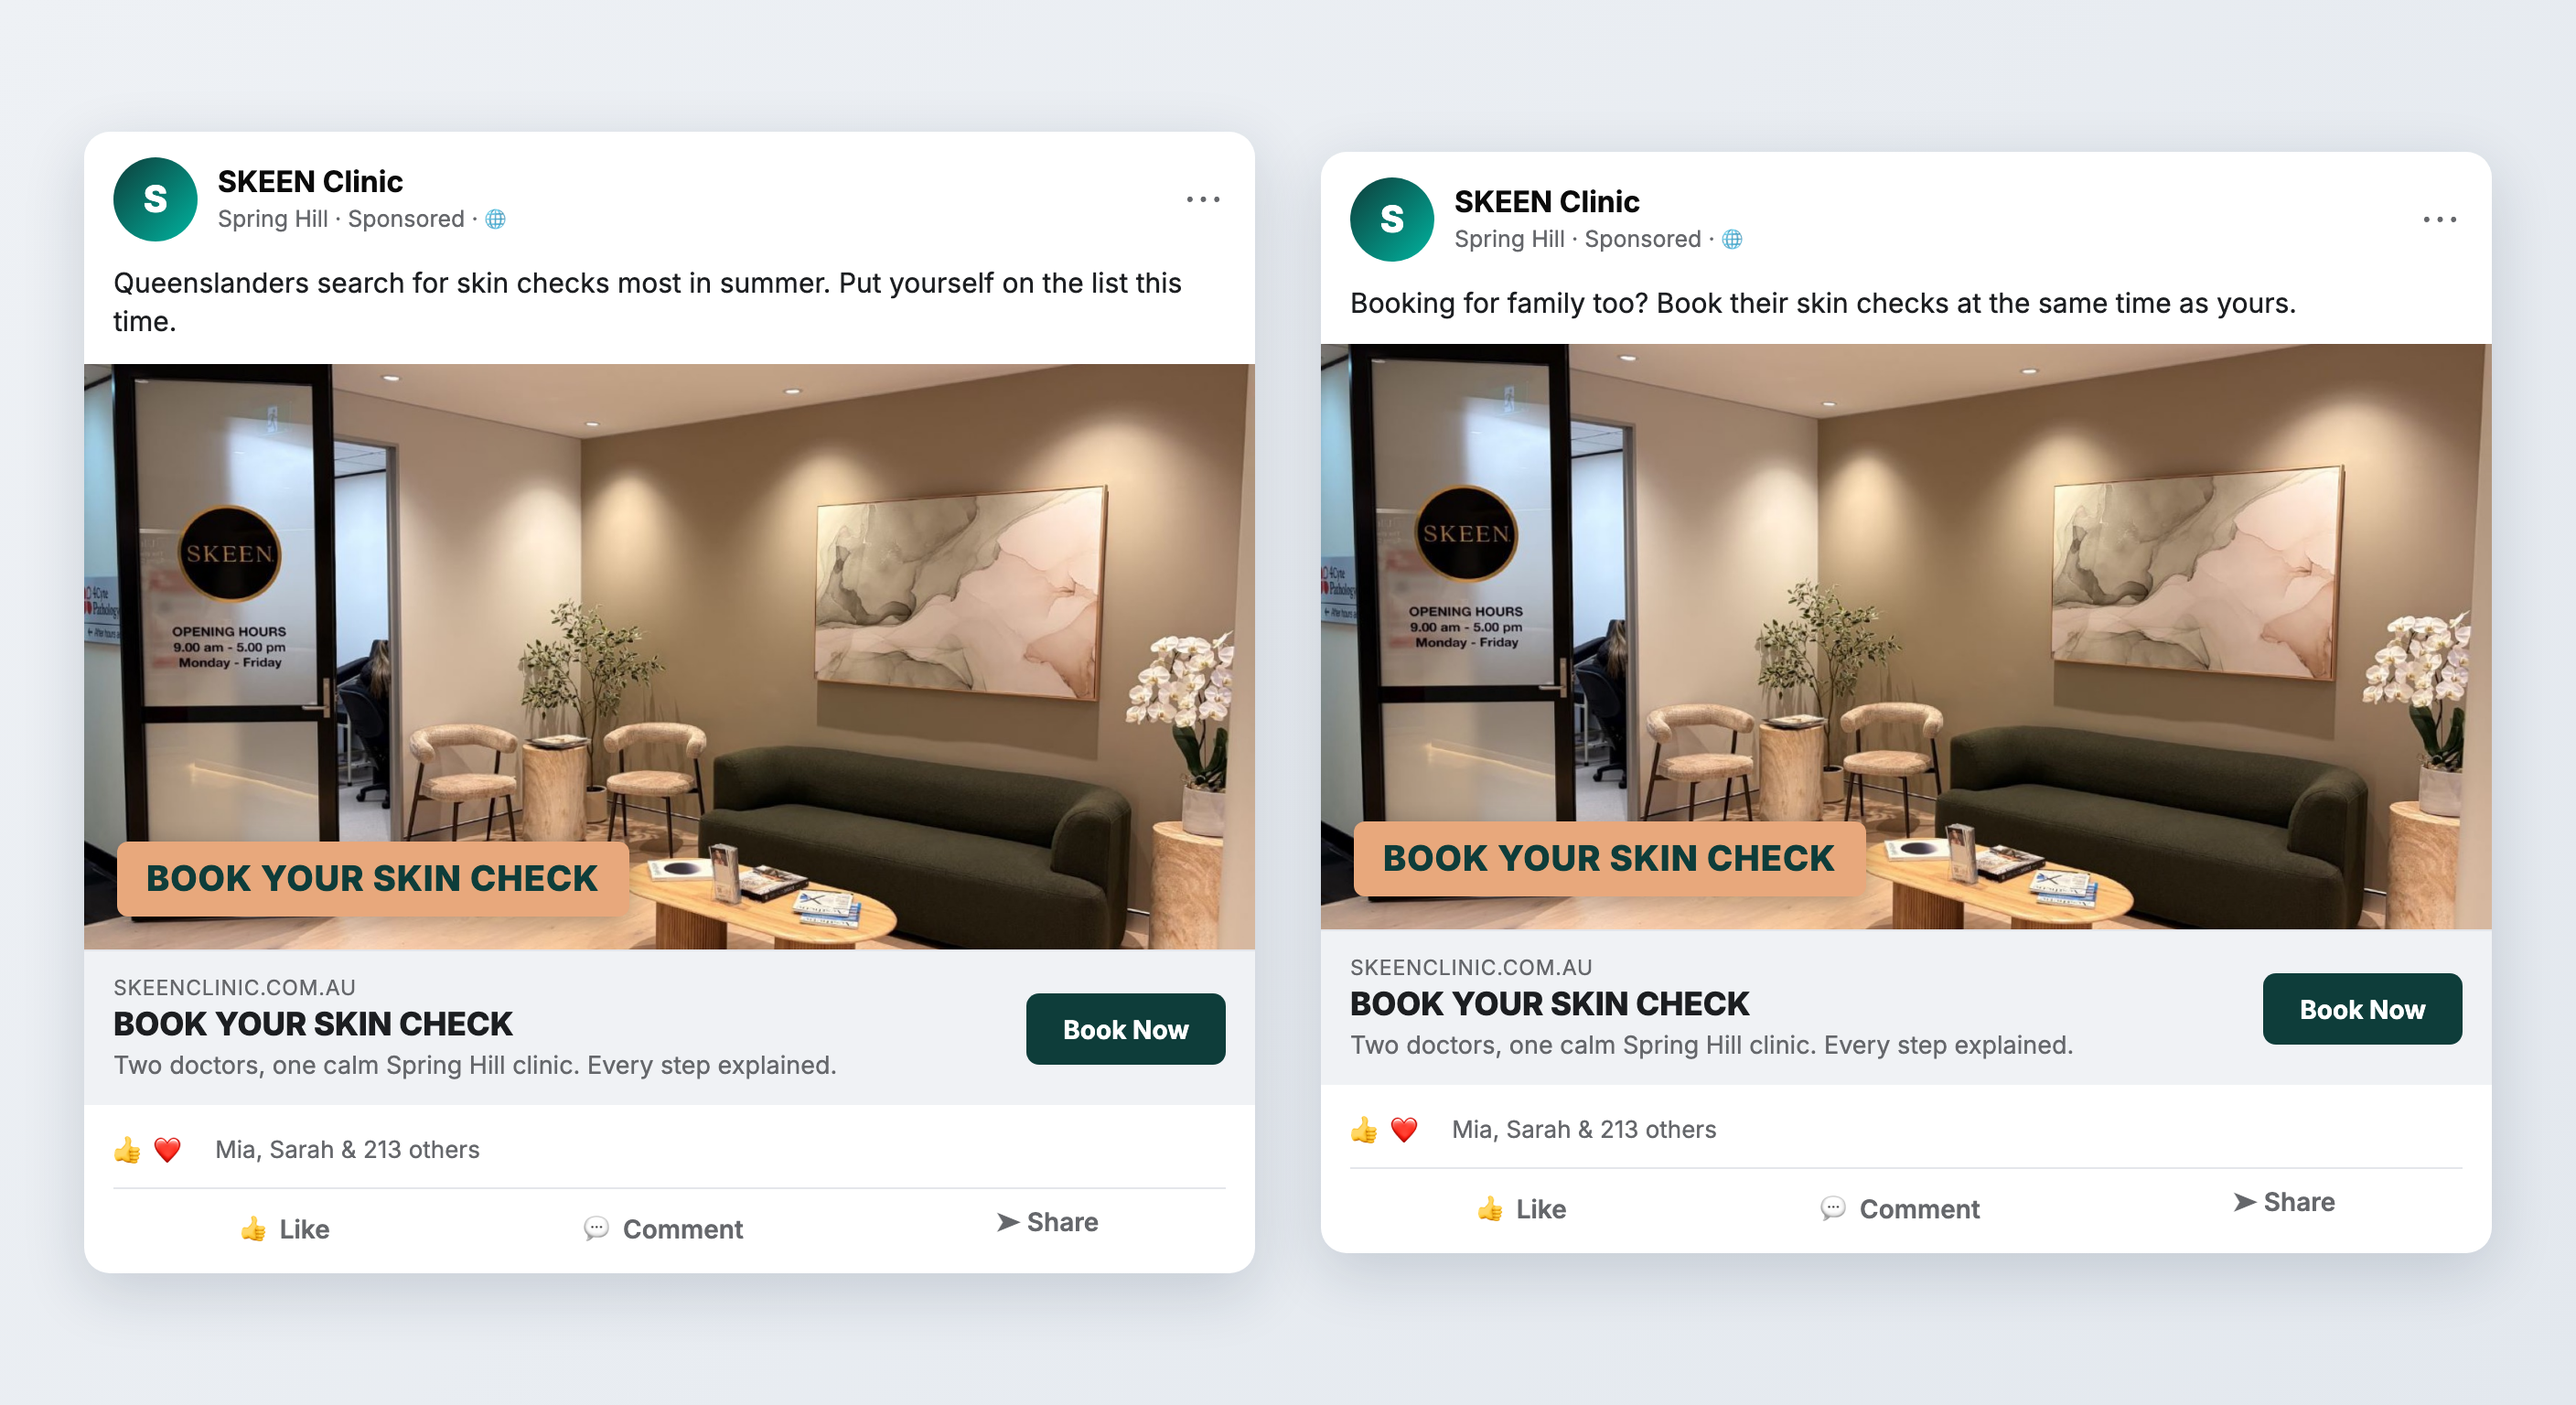
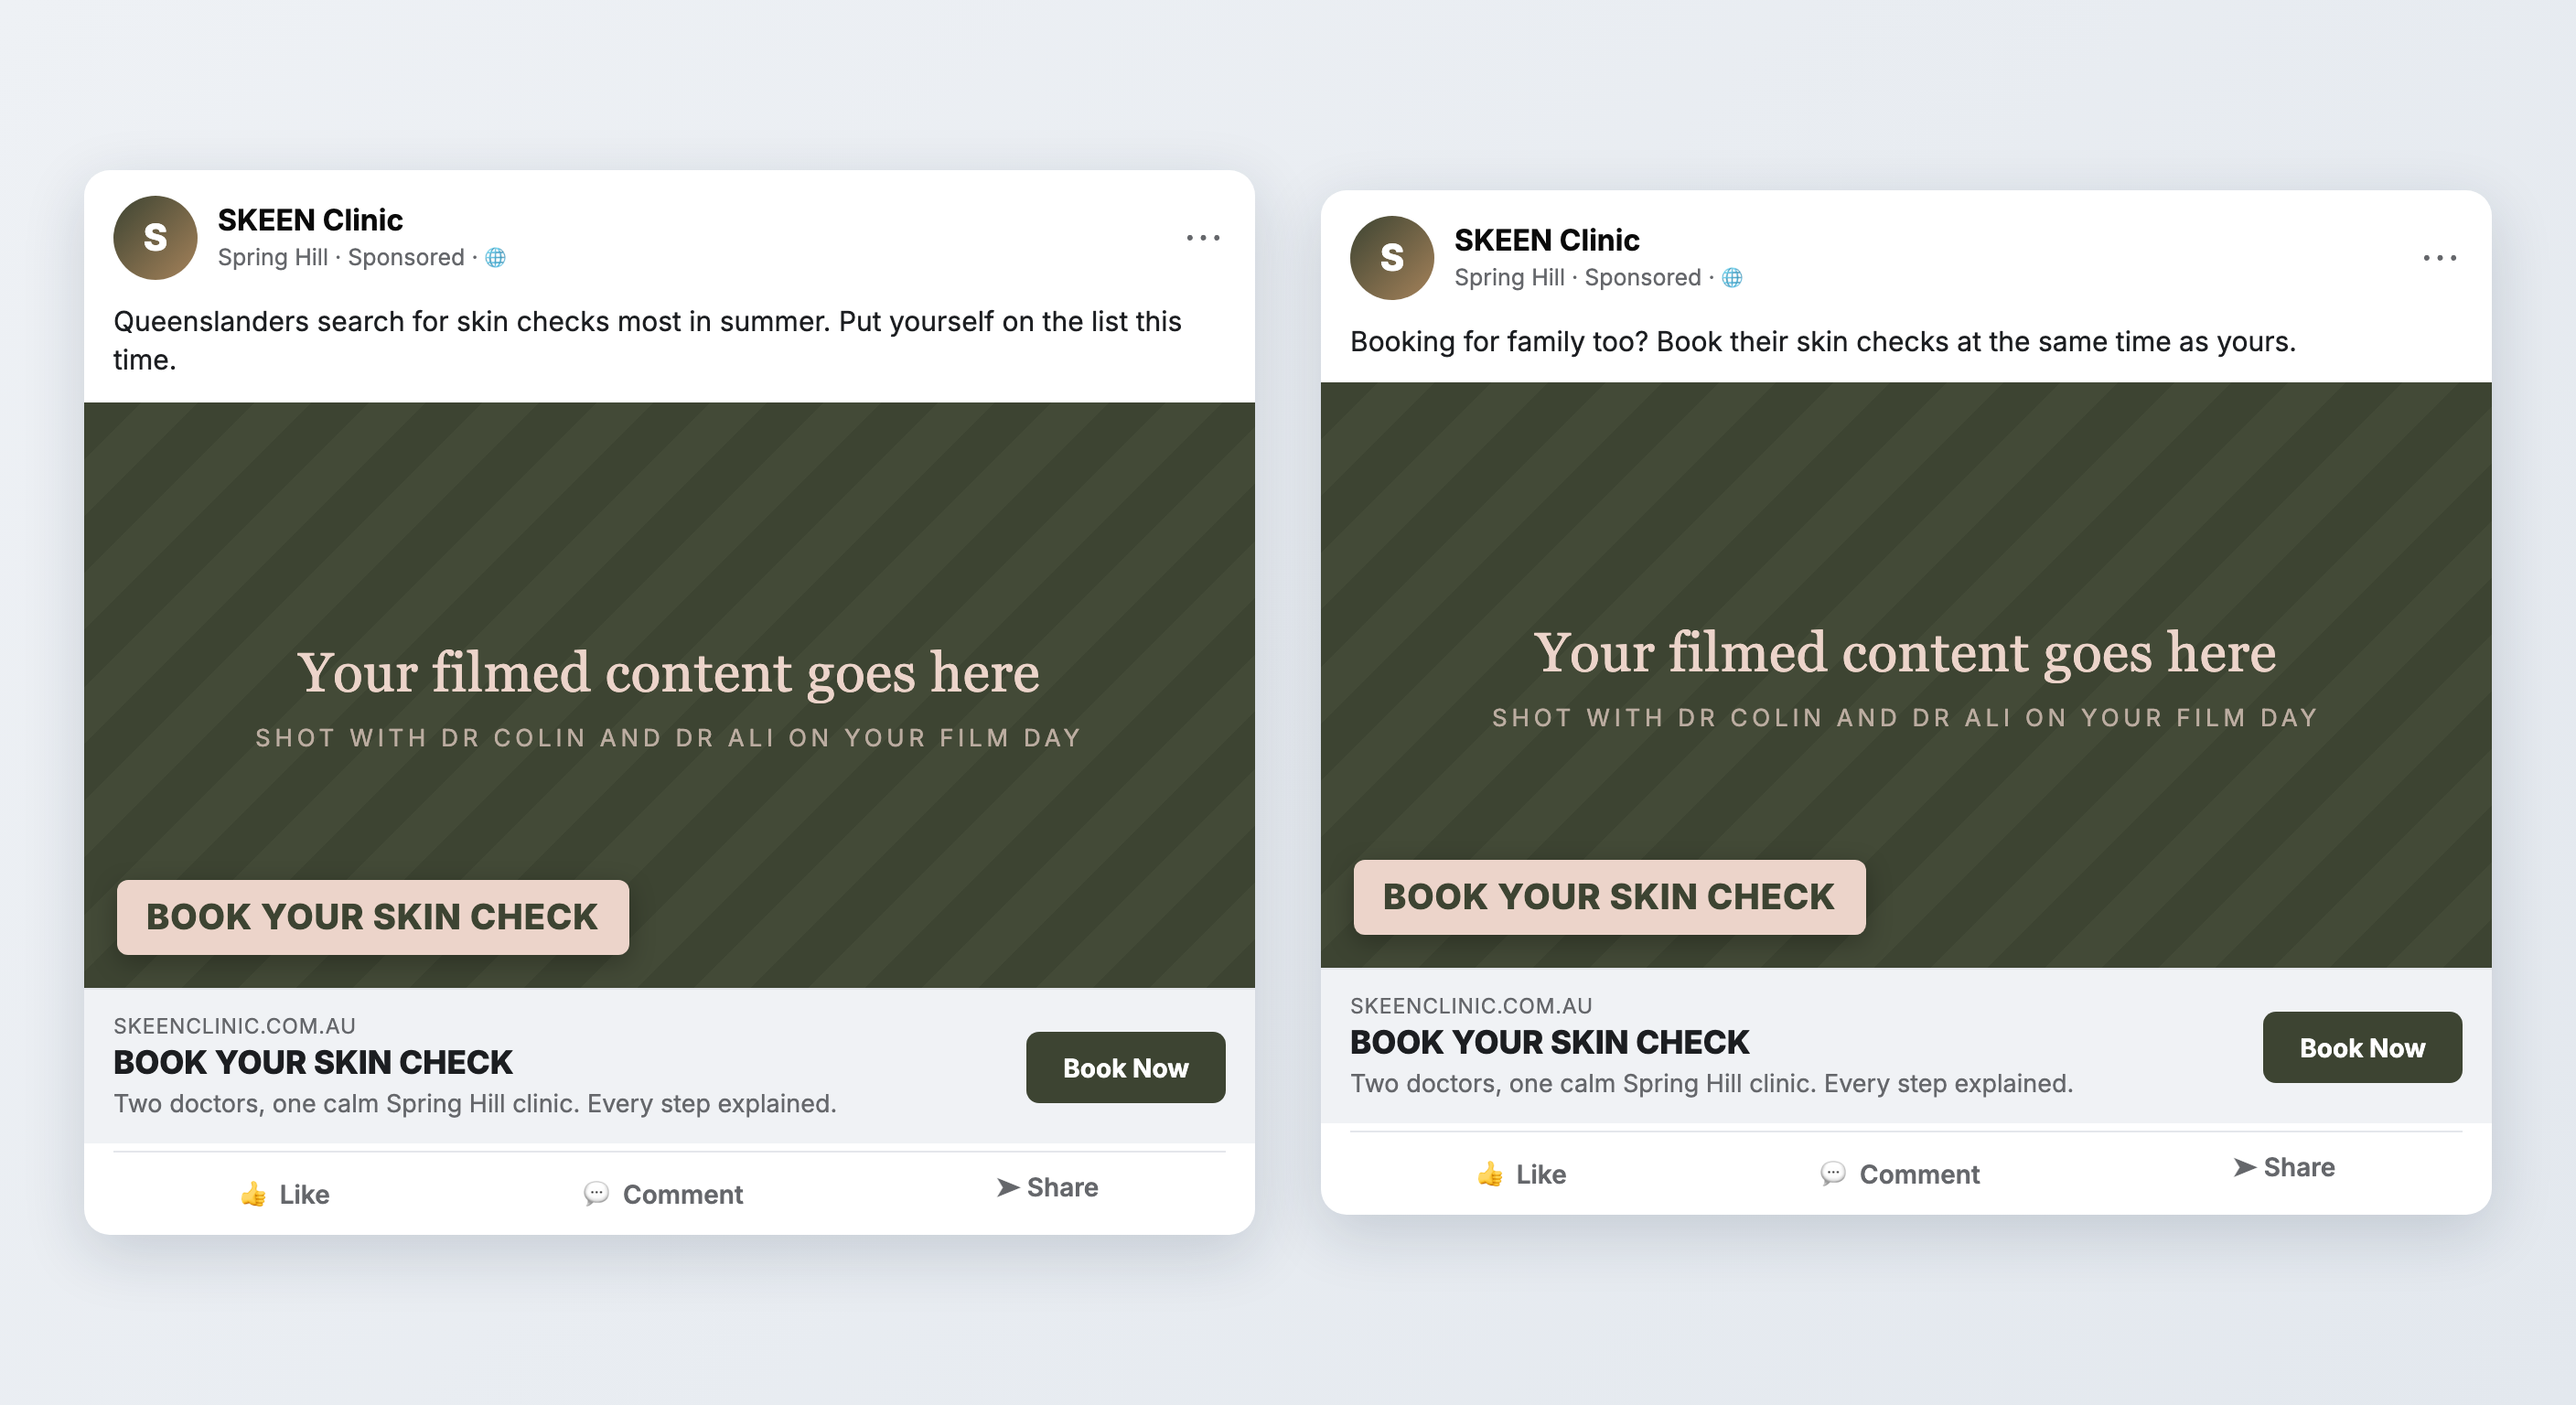
SKEEN deck: rebuild ad mockups as film-day placeholders, drop jargon line and fabricated engagement
Claude-Session: https://claude.ai/code/session_01NSD6gBiENEv8ndGzfpitaw

diff --git a/index.html b/index.html
@@ -185,7 +185,7 @@ p { font-size:0.9rem; color:var(--text-mid); font-weight:300; line-height:1.8; }
     <div style="max-width:800px; margin-top:1rem;">
       <div class='card' style='padding:1.1rem; margin-bottom:0.7rem;'><h4>1. Become the Skin Cancer Clinic Brisbane Knows, Likes and Trusts</h4><p>People book with doctors they know, like and trust, or who someone close to them recommends. Right now the care is better than the footprint. We close that gap across your websites, Google and Instagram.</p></div>
       <div class='card' style='padding:1.1rem; margin-bottom:0.7rem;'><h4>2. Turn Worry Into Bookings</h4><p>Skin cancer frightens people, and frightened people put things off. Every page, post and ad explains what happens next, warmly, so the booking feels like relief instead of a risk.</p></div>
-      <div class='card' style='padding:1.1rem; margin-bottom:0.7rem;'><h4>3. Put Dr Colin and Dr Ali Front and Centre</h4><p>Faces, not logos. A film series and a month of content that let Brisbane meet you both, hear how you explain things, and see a little of your humour before they ever walk in.</p></div>
+      <div class='card' style='padding:1.1rem; margin-bottom:0.7rem;'><h4>3. Put Dr Colin and Dr Ali Front and Centre</h4><p>Brisbane needs to see the two of you. A film series and a month of content that let people meet you both, hear how you explain things, and see a little of your humour before they ever walk in.</p></div>
       <div class='card' style='padding:1.1rem; margin-bottom:0.7rem;'><h4>4. Win the Women Who Book for Everyone</h4><p>Women look after their own health and the health of the men in their lives. Speak to her, and she books herself, her partner and her dad. That is the audience every campaign is built around.</p></div>
       <div class='card' style='padding:1.1rem;'><h4>5. Grow Skin and Cosmetic Medicine With Its Own Home</h4><p>A second website for aesthetic and cosmetic medicine that brings skin check patients across at the right moment, and sends cosmetic patients back for their yearly check.</p></div>
     </div>
@@ -367,7 +367,7 @@ p { font-size:0.9rem; color:var(--text-mid); font-weight:300; line-height:1.8; }
       <div>
         <div class="browser-frame">
           <div class="browser-bar"><span class="browser-dot r"></span><span class="browser-dot y"></span><span class="browser-dot g"></span></div>
-          <img src="assets/skeen-ads.png" alt="Warm, doctor-led ad concepts for SKEEN">
+          <img src="assets/skeen-ads.png" alt="Two SKEEN ad concepts, with the creative space left for footage from the film day">
         </div>
       </div>
     </div>
